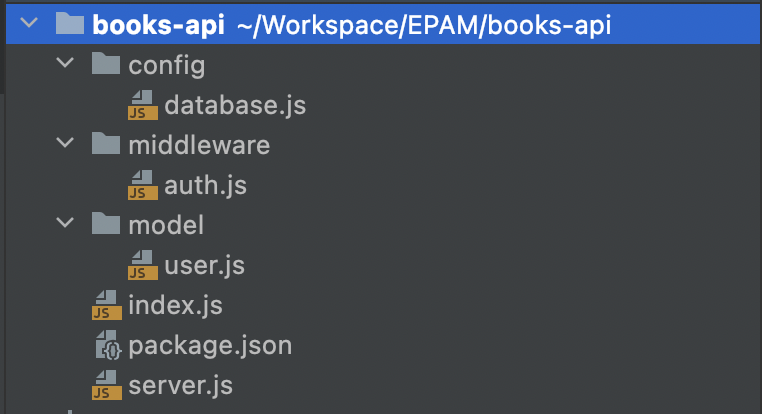
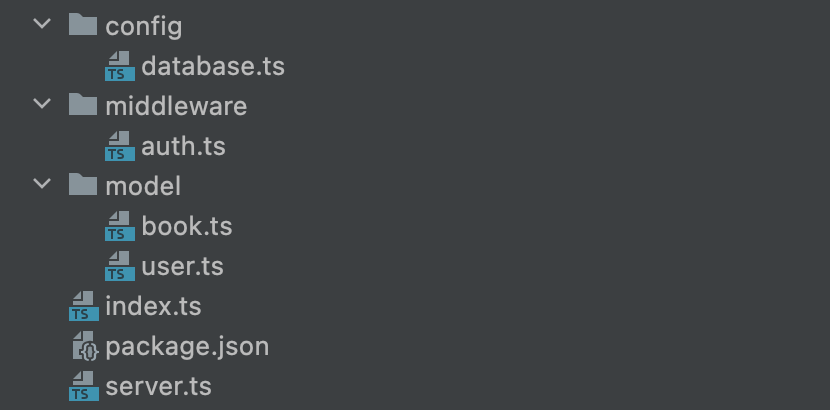
chore: updated examples with type

diff --git a/Modules/docs/9-authorization/examples/5_authz_middleware.md b/Modules/docs/9-authorization/examples/5_authz_middleware.md
@@ -7,7 +7,7 @@ We have protected our api from unauthorized access. But how about situations whe
 
 Let's create some rest api routers and then dive into this topic. But before adding some routers we will define new schema in `model/book.ts`:
 
-```ts
+```typescript
 import { Schema, model } from "mongoose";
 
 interface IBook {
@@ -27,18 +27,18 @@ export default Book;
 ```
 
 Now we can work with books. We will extend `serve.ts` with new routes. This following code should be added after `verifyToken` middleware:
-```ts
+```typescript
 import Book from "./model/book";
 
 export async function bootstrap(): Promise<Express> {
     ...
-    app.get('/api/books', async (req, res) => {
+    app.get('/api/books', async (req: Request, res: Response) => {
         const books = await Book.find({});
 
         return res.status(200).json(books);
     });
 
-    app.post('/api/books', async (req, res) => {
+    app.post('/api/books', async (req: Request, res: Response) => {
         try {
             // Get user input
             const { title, text } = req.body;
@@ -71,7 +71,7 @@ export async function bootstrap(): Promise<Express> {
         }
     });
 
-    app.delete('/api/books/:bookId', async (req, res) => {
+    app.delete('/api/books/:bookId', async (req: Request, res: Response) => {
         try {
             // Get user input
             const { bookId } = req.params;
@@ -100,8 +100,10 @@ export async function bootstrap(): Promise<Express> {
 In code above we have added to list books, create and delete book. As you can see, those routers available for any authorized user and for list books router it's ok, but we should  not allow readers create new books as well as delete book by user who is not the author of this book. Let's fix it.
 First at all we will create middle to check if the current user author.  Create `middleware/isAuthor.ts`:
 
-```ts
-export function isAuthor(req, res, next){
+```typescript
+import { Request, Response, NextFunction } from "express";
+
+export function isAuthor(req: Request, res: Response, next:NextFunction) {
     const currentUser = req.user;
 
     if (currentUser.role !== 'author') {
@@ -113,15 +115,15 @@ export function isAuthor(req, res, next){
 
 After our middleware create, we need to guard our routes:
 
-```ts
+```typescript
 import { isAuthor } from "./middleware/isAuthor";
 
 export async function bootstrap(): Promise<Express> {
-    app.post('/api/books', isAuthor, async (req, res) => {
+    app.post('/api/books', isAuthor, async (req: Request, res: Response) => {
         ...
     });
 
-    app.delete('/api/books/:bookId', isAuthor, async (req, res) => {
+    app.delete('/api/books/:bookId', isAuthor, async (req: Request, res: Response) => {
         ...
     });
 }
@@ -130,10 +132,12 @@ export async function bootstrap(): Promise<Express> {
 As you can see we fixed first problem and now only authors can create or delete books. The code above is example of RBAC (role base access control) authorization strategy.
 Now let's fix another issue when one author can delete book of another. We need to create another middleware `middleware/isBookAuthor.ts`:
 
-```ts
-import Book from"../model/book";
+```typescript
+import { Request, Response, NextFunction } from "express";
 
-export async function isBookAuthor(req, res, next) {
+import Book from "../model/book";
+
+export async function isBookAuthor(req: Request, res: Response, next: NextFunction) {
     try {
         // Get user input
         const { bookId } = req.params;
@@ -159,12 +163,12 @@ export async function isBookAuthor(req, res, next) {
 ```
 
 After we created middleware we now can update our delete route to guard it:
-```ts
+```typescript
 import { isBookAuthor } from "./middleware/isBookAuthor";
 
 const bootstrap = async () => {
     ...
-    app.delete('/api/books/:bookId', isAuthor, isBookAuthor, async (req, res) => {
+    app.delete('/api/books/:bookId', isAuthor, isBookAuthor, async (req: Request, res: Response) => {
         try {
             const { bookId } = req.params;
 

diff --git a/Modules/docs/9-authorization/examples/4_auth_middleware.md b/Modules/docs/9-authorization/examples/4_auth_middleware.md
@@ -5,10 +5,17 @@ sidebar_position: 4
 # Auth middleware
 We have implemented authentication flow. Now we need to identify if user logged in before allow to use server rest api. To identify if user logged in and if user session wasn't expired we will implement `middleware`
 
-```ts
+```typescript
 import * as jwt from "jsonwebtoken";
+import { Request, Response, NextFunction } from "express";
 
-export async function verifyToken (req, res, next) {
+export interface CurrentUser {
+    id: string,
+    email: string,
+    role: string
+}
+
+export async function verifyToken (req: Request, res: Response, next: NextFunction) {
     const authHeader = req.headers.authorization;
 
     if (!authHeader) {
@@ -22,7 +29,7 @@ export async function verifyToken (req, res, next) {
     }
 
     try {
-        const user = jwt.verify(token, process.env.TOKEN_KEY!);
+        const user = jwt.verify(token, process.env.TOKEN_KEY!) as CurrentUser;
 
         req.user = user;
     } catch (err) {
@@ -33,8 +40,16 @@ export async function verifyToken (req, res, next) {
 ```
 
 Now we can extend our server to protect rest api from unauthorized access:
-```js
-import { verifyToken } from "./middleware/auth";
+```typescript
+import { verifyToken, CurrentUser } from "./middleware/auth";
+
+declare global {
+    namespace Express {
+        interface Request {
+            user: CurrentUser
+        }
+    }
+}
 
 export async function bootstrap(): Promise<Express> {
     ...

diff --git a/Modules/docs/9-authorization/examples/2_signup.md b/Modules/docs/9-authorization/examples/2_signup.md
@@ -5,7 +5,7 @@ sidebar_position: 1
 # Signup
 To implement registration flow we need to define user model first. Let's update our `model/user.ts` file:
 
-```ts
+```typescript
 import { Schema, model } from "mongoose";
 
 interface IUser {
@@ -29,13 +29,15 @@ export default User;
 ```
 
 Now we add route for our registration flow in `server.ts`:
-```ts
+```typescript
+import express, { Express, Request, Response } from "express";
+
 import User from "./model/user";
 import bcrypt from "bcryptjs";
 
 export async function bootstrap(): Promise<Express> {
     ...
-    app.post("/register", async (req, res) => {
+    app.post("/register", async (req: Request, res: Response) => {
         try {
             // Get user input
             const { first_name, last_name, isAuthor, email, password } = req.body;
@@ -74,7 +76,7 @@ export async function bootstrap(): Promise<Express> {
 
 Now let's discuss our code snippet. In code above we validate user input first. After that we encrypt user password to make it secure from hackers:
 
-```ts
+```typescript
 const encryptedPassword = await bcrypt.hash(password, 10);
 ```
 

diff --git a/Modules/docs/9-authorization/examples/1_setup_project.md b/Modules/docs/9-authorization/examples/1_setup_project.md
@@ -60,7 +60,7 @@ docker run -d -p 27017:27017 --name books-api-mongo mongo:latest
 ```
 Now we can configure our db connector to communicate with mongo server that we've already started. For this we will modify `config/database.ts` file:
 
-```ts
+```typescript
 import mongoose from 'mongoose';
 
 export async function connect(): Promise<void> {
@@ -83,7 +83,7 @@ export async function connect(): Promise<void> {
 ```
 
 Now let's configure our `server.ts` file:
-```ts
+```typescript
 import dotenv from "dotenv";
 import * as database from "./config/database";
 import express, { Express } from "express";
@@ -103,11 +103,12 @@ export async function bootstrap(): Promise<Express> {
 ```
 
 In our `index.ts` let's add logic to start server:
-```ts
+```typescript
 import http from "http";
 import { bootstrap } from "./server";
+import { Express } from "express";
 
-bootstrap().then(app => {
+bootstrap().then((app: Express) => {
     const server = http.createServer(app);
 
     const { API_PORT } = process.env;

diff --git a/Modules/docs/9-authorization/examples/3_signin.md b/Modules/docs/9-authorization/examples/3_signin.md
@@ -5,12 +5,12 @@ sidebar_position: 2
 # SignIn flow
 After we implemented user registration flow it would be nice to implement user login. Let's updated our server.js file with the following code:
 
-```ts
+```typescript
 import * as jwt from "jsonwebtoken";
 
 export async function bootstrap(): Promise<Express> {
     ...
-    app.post("/login", async (req, res) => {
+    app.post("/login", async (req: Request, res: Response) => {
         try {
             // Get user input
             const { email, password } = req.body;
